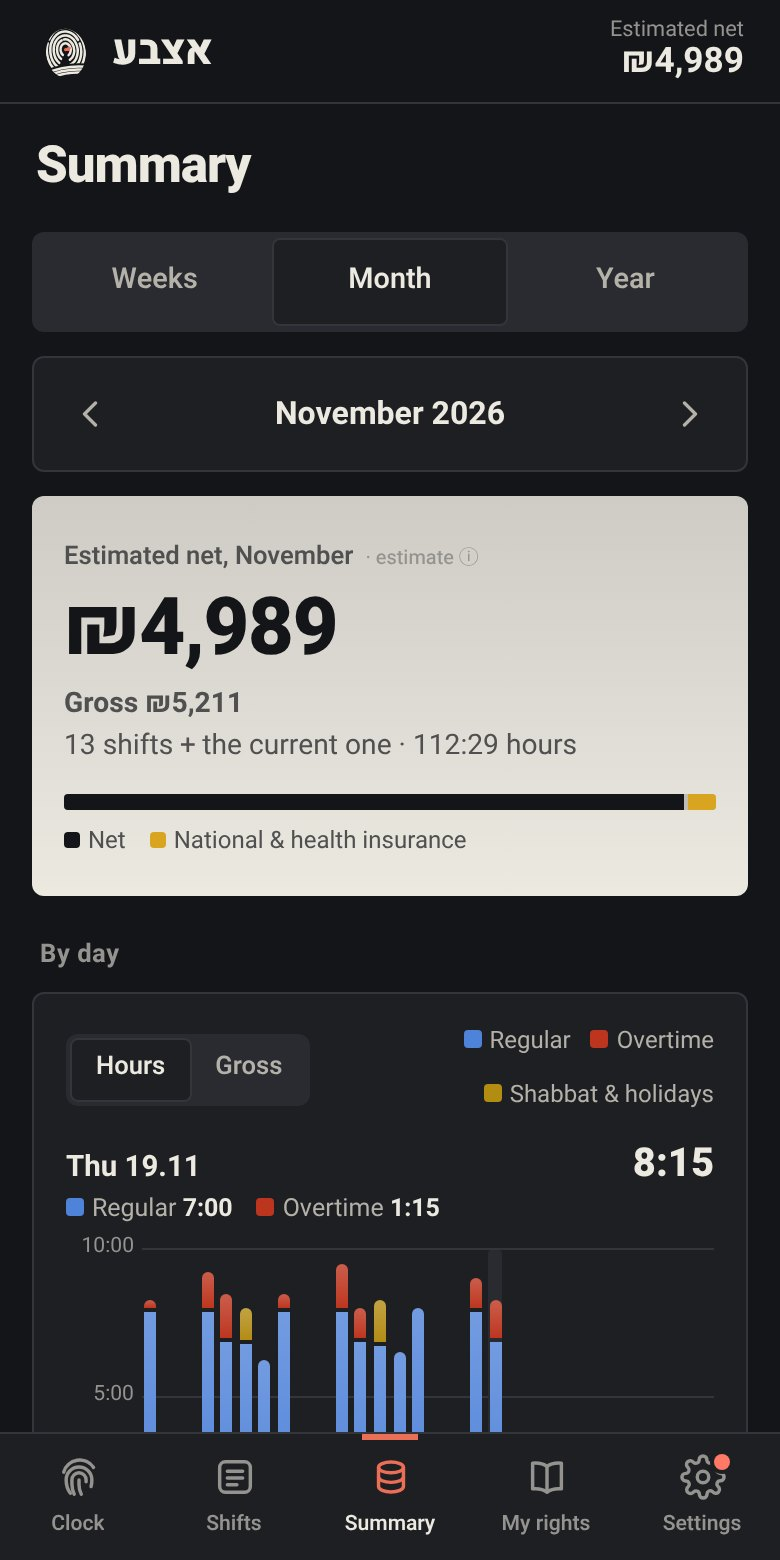
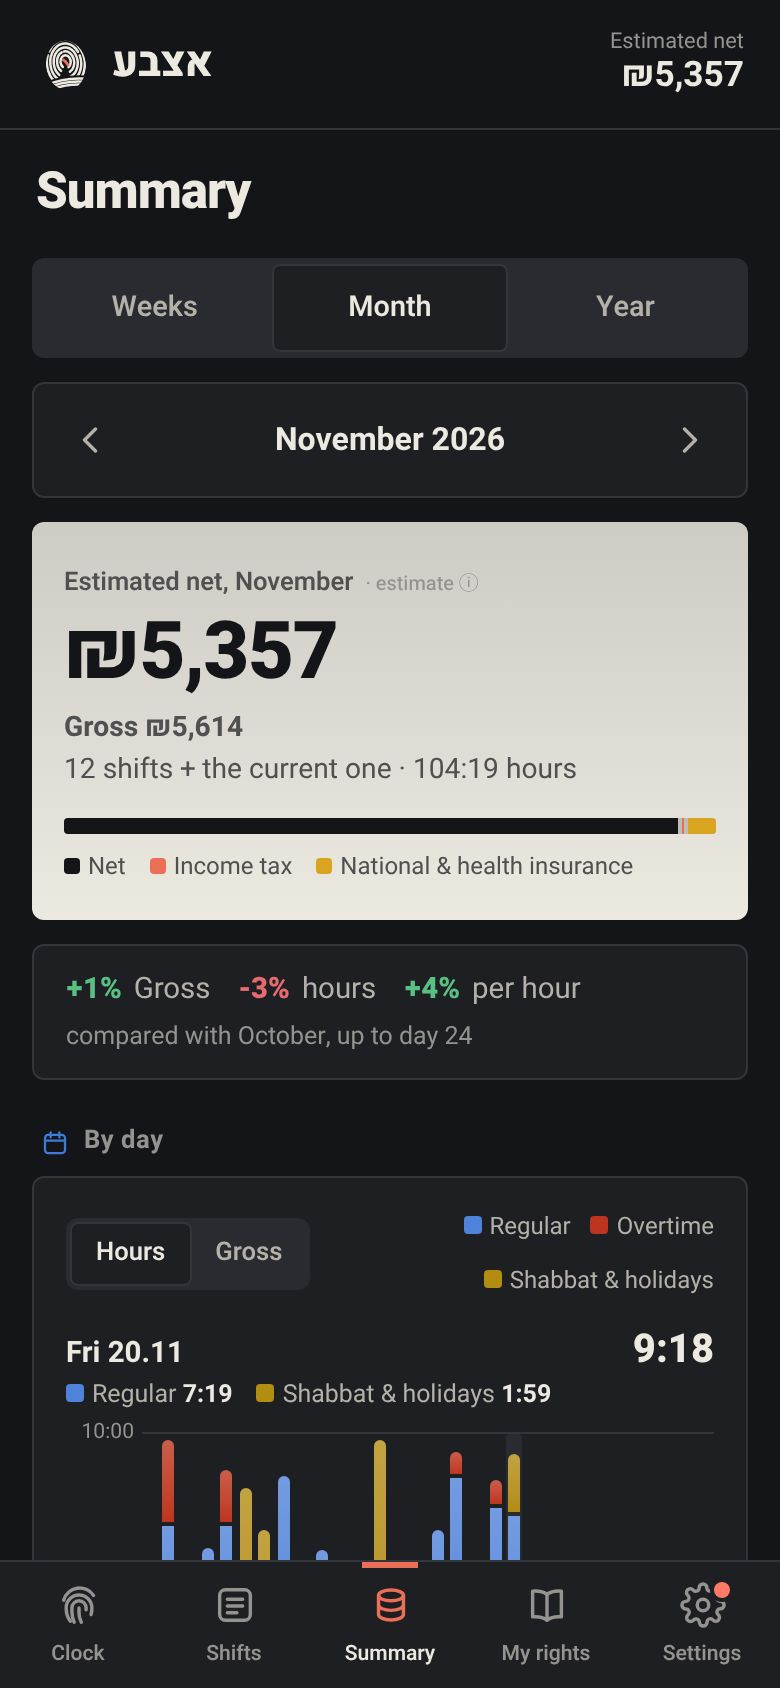
Website: full feature list, fresh screenshots in both languages, gallery as a grid; English 'compared with … up to day'

diff --git a/site/index.html b/site/index.html
@@ -102,18 +102,20 @@ h1 small{display:block;font-size:clamp(17px,2vw,20px);font-weight:600;letter-spa
 section{padding:64px 0;border-top:1px solid var(--line)}
 h2{font-size:clamp(28px,3.6vw,40px);font-weight:800;letter-spacing:-.4px;margin:0 0 8px;line-height:1.15}
 .sub{color:var(--ink2);margin:0 0 36px;max-width:34em}
-.grid{display:grid;grid-template-columns:repeat(3,1fr);gap:28px}
+.grid{display:grid;grid-template-columns:repeat(3,1fr);gap:34px 28px}
 .item h3{font-size:20px;font-weight:700;margin:0 0 6px}
 .item p{margin:0;color:var(--ink2);font-size:16px}
 .item .k{direction:ltr;unicode-bidi:isolate;color:var(--blue);font-weight:800;font-size:15px;display:block;margin-bottom:10px;font-variant-numeric:tabular-nums}
 .item.coral .k{color:var(--coral)}
 html[dir=rtl] .item .k{text-align:right}
 /* gallery */
-.gallery{display:flex;gap:22px;overflow-x:auto;padding:4px 2px 18px;scroll-snap-type:x mandatory;scrollbar-width:none}
-.gallery::-webkit-scrollbar{display:none}
-.shot{flex:none;width:250px;scroll-snap-align:start}
-.shot img{width:100%;border-radius:28px;border:6px solid #26282D;display:block}
+
+.gallery{display:grid;grid-template-columns:repeat(4,1fr);gap:28px 22px}
+
+.shot{min-width:0}
+.shot img{width:100%;height:auto;border-radius:28px;border:6px solid #26282D;display:block}
 .shot>span{display:block;margin-top:12px;font-size:15px;color:var(--ink2)}
+@media (max-width:1100px) and (min-width:861px){.gallery{grid-template-columns:repeat(3,1fr)}}
 /* privacy */
 .private{display:grid;grid-template-columns:1fr 1fr;gap:40px;align-items:start}
 .private ul{margin:0;padding:0;list-style:none}
@@ -141,6 +143,9 @@ html[lang=he] [data-l=he],html[lang=en] [data-l=en]{display:revert}
   .phone.a{position:relative;inset:auto;margin:0 auto}
   .phone.b{display:none}
   .grid,.private,.guides{grid-template-columns:1fr;gap:24px}
+  .gallery{display:flex;overflow-x:auto;scroll-snap-type:x mandatory;scrollbar-width:none;padding-bottom:12px;margin-inline:-24px;padding-inline:24px}
+  .gallery::-webkit-scrollbar{display:none}
+  .shot{flex:0 0 62%;scroll-snap-align:center}
   .bar nav .hide-m{display:none}
 }
 </style>
@@ -175,8 +180,8 @@ html[lang=he] [data-l=he],html[lang=en] [data-l=en]{display:revert}
     <span class="soon"><span data-l="he">חינם. בלי חשבון, בלי פרסומות. עובד גם בלי אינטרנט.</span><span data-l="en">Free. No account, no ads. Works offline.</span></span>
   </div>
   <div class="phones" aria-hidden="true">
-    <div class="phone b"><img data-src="sum" src="img/he/sum.jpg" alt="" width="280" height="560"></div>
-    <div class="phone a"><img data-src="home" src="img/he/home.jpg" alt="" width="280" height="560"></div>
+    <div class="phone b"><img data-src="sum" src="img/he/sum.jpg" alt="" width="280" height="606"></div>
+    <div class="phone a"><img data-src="home" src="img/he/home.jpg" alt="" width="280" height="606"></div>
   </div>
 </div>
 
@@ -184,28 +189,34 @@ html[lang=he] [data-l=he],html[lang=en] [data-l=en]{display:revert}
   <h2><span data-l="he">חישוב שכר ושעות נוספות, כל דקה בתעריף הנכון</span><span data-l="en">Every minute at the right rate</span></h2>
   <p class="sub"><span data-l="he">אצבע יודעת מתי נכנסת שבת בעיר שלך, מתי מתחילות שעות נוספות, ומה מגיע לך ביום הבחירות.</span><span data-l="en">Etzba knows when Shabbat starts in your city, when overtime begins, and what you're owed on election day.</span></p>
   <div class="grid">
-    <div class="item"><span class="k">100% · 125% · 150%</span><h3><span data-l="he">שעות נוספות</span><span data-l="en">Overtime</span></h3><p><span data-l="he">ביום ובשבוע, עם יום מקוצר ומשמרות לילה. המכסה השבועית ניתנת לשינוי.</span><span data-l="en">Daily and weekly, with short days and night shifts. The weekly limit is adjustable.</span></p></div>
-    <div class="item coral"><span class="k">150% · 175% · 200%</span><h3><span data-l="he">שבת וחגים</span><span data-l="en">Shabbat and holidays</span></h3><p><span data-l="he">לפי זמני כניסת ויציאת השבת בעיר שלך, וכל החגים עד 2035, בלי אינטרנט.</span><span data-l="en">By candle-lighting and havdalah in your city, and every holiday to 2035, offline.</span></p></div>
-    <div class="item"><span class="k">₪5,211 → ₪4,989</span><h3><span data-l="he">מחשבון שכר נטו</span><span data-l="en">Gross and net</span></h3><p><span data-l="he">מס הכנסה, נקודות זיכוי, ביטוח לאומי, בריאות ופנסיה. סיכום לשבוע, לחודש ולשנה.</span><span data-l="en">Income tax, credit points, National Insurance, health tax and pension. By week, month and year.</span></p></div>
-    <div class="item"><span class="k">06:14:01</span><h3><span data-l="he">שעון נוכחות בטלפון</span><span data-l="en">Shift clock</span></h3><p><span data-l="he">נגיעה אחת כדי להתחיל, והסכום עולה לנגד העיניים. שכחת? משנים את שעת הכניסה.</span><span data-l="en">One tap to start, and watch the amount grow. Forgot? Change the start time.</span></p></div>
-    <div class="item"><span class="k">.xlsx · .csv</span><h3><span data-l="he">ייבוא מאקסל</span><span data-l="en">Import from Excel</span></h3><p><span data-l="he">משמרות מקבצי Excel ו־CSV, גם מאפליקציות אחרות, ישר מתפריט השיתוף.</span><span data-l="en">Shifts from Excel and CSV files, even from other apps, straight from the share menu.</span></p></div>
-    <div class="item"><span class="k"><span data-l="he">חוק שעות עבודה ומנוחה</span><span data-l="en">Hours of Work and Rest Law</span></span><h3><span data-l="he">מה מגיע לי</span><span data-l="en">Know your rights</span></h3><p><span data-l="he">הזכויות של עובדים לפי שעה, בשפה פשוטה. הפסקות, נסיעות, חגים ועוד.</span><span data-l="en">What hourly workers are owed, in plain words. Breaks, travel, holidays and more.</span></p></div>
+    <div class="item"><span class="k">100% · 125% · 150%</span><h3><span data-l="he">שעות נוספות</span><span data-l="en">Overtime</span></h3><p><span data-l="he">ביום ובשבוע, עם יום מקוצר ומשמרות לילה. המכסה השבועית של 42 שעות נספרת לבד.</span><span data-l="en">By the day and the week, with the short day and night shifts. The 42-hour week is counted for you.</span></p></div>
+    <div class="item coral"><span class="k">150% · 175% · 200%</span><h3><span data-l="he">שבת וחגים</span><span data-l="en">Shabbat and holidays</span></h3><p><span data-l="he">לפי זמני השבת בעיר שלך, או לפי שעות קבועות של המעסיק. דמי חג ויום הבחירות.</span><span data-l="en">By Shabbat times in your city, or your employer's fixed hours. Holiday pay and election day.</span></p></div>
+    <div class="item"><span class="k">₪5,614 → ₪5,357</span><h3><span data-l="he">מחשבון שכר נטו</span><span data-l="en">Gross and net</span></h3><p><span data-l="he">מס הכנסה, נקודות זיכוי, ביטוח לאומי, בריאות ופנסיה. אפשר גם להציג רק ברוטו.</span><span data-l="en">Income tax, credit points, National Insurance, health and pension. Or show gross only.</span></p></div>
+    <div class="item"><span class="k">06:24:18</span><h3><span data-l="he">שעון נוכחות בטלפון</span><span data-l="en">Shift clock</span></h3><p><span data-l="he">נגיעה אחת כדי להתחיל, מהאפליקציה, מהווידג׳ט או מההתראה. הסכום עולה לנגד העיניים.</span><span data-l="en">One tap to start, from the app, the widget or the notification. Watch the pay add up.</span></p></div>
+    <div class="item"><h3><span data-l="he">משמרות עתידיות</span><span data-l="en">Planned shifts</span></h3><p><span data-l="he">מוסיפים משמרת מראש, גם בלי שעת סיום, ומקבלים תזכורת שעה לפני.</span><span data-l="en">Add a shift ahead of time, even without an end time, and get a reminder an hour before.</span></p></div>
+    <div class="item coral"><span class="k">+13% · −15%</span><h3><span data-l="he">סיכום שבוע, חודש ושנה</span><span data-l="en">Weeks, months, years</span></h3><p><span data-l="he">גרפים לפי ימים, והשוואה לחודש ולשנה הקודמים. יעד חודשי ודוח להורדה.</span><span data-l="en">Charts by day, and how you compare with last month and last year. A monthly goal and a report to share.</span></p></div>
+    <div class="item"><h3><span data-l="he">מחלה, חופשה והבראה</span><span data-l="en">Sick days, vacation, recuperation</span></h3><p><span data-l="he">ימי מחלה וחופשה נצברים לבד, ודמי ההבראה מחושבים לפי הוותק.</span><span data-l="en">Sick and vacation days build up on their own; recuperation pay by seniority.</span></p></div>
+    <div class="item"><span class="k">16 · 17 · 18</span><h3><span data-l="he">נוער עובד</span><span data-l="en">Under 18</span></h3><p><span data-l="he">תאריך לידה (לא חובה) מפעיל את הכללים לנוער: שכר מינימום לפי גיל, בלי ביטוח לאומי, 40 שעות בשבוע.</span><span data-l="en">An optional date of birth applies youth rules: minimum wage by age, no National Insurance, a 40-hour week.</span></p></div>
+    <div class="item"><h3><span data-l="he">כמה מקומות עבודה</span><span data-l="en">Several jobs</span></h3><p><span data-l="he">לכל מקום עבודה תעריף, נסיעות, הפסקה וכללים משלו. טיפים ובונוסים בצד.</span><span data-l="en">Each job has its own rate, travel, break and rules. Tips and bonuses on the side.</span></p></div>
+    <div class="item"><span class="k">.xlsx · .csv</span><h3><span data-l="he">ייבוא וייצוא</span><span data-l="en">Import and export</span></h3><p><span data-l="he">משמרות מאקסל ו־CSV, גם מאפליקציות אחרות. ייצוא לאקסל וגיבוי מלא.</span><span data-l="en">Shifts from Excel and CSV, even from other apps. Export to Excel and full backups.</span></p></div>
+    <div class="item"><h3><span data-l="he">מה מגיע לי</span><span data-l="en">Know your rights</span></h3><p><span data-l="he">חוק שעות עבודה ומנוחה בשפה פשוטה, וכל שקל במשמרת מוסבר: למה כאן נוספות ולמה כאן שבת.</span><span data-l="en">Israeli labour law in plain words, and every shekel of a shift explained.</span></p></div>
+    <div class="item coral"><span class="k">Aa · TalkBack</span><h3><span data-l="he">לכולם</span><span data-l="en">For everyone</span></h3><p><span data-l="he">עברית ואנגלית, טקסט גדול עד 200%, קורא מסך, ערכות צבע, ווידג׳ט בכמה גדלים.</span><span data-l="en">Hebrew and English, text up to 200%, screen readers, colour themes, a widget in several sizes.</span></p></div>
   </div>
 </div></section>
-
 <section><div class="wrap">
   <h2><span data-l="he">ככה זה נראה</span><span data-l="en">What it looks like</span></h2>
-  <p class="sub"><span data-l="he">כהה, נקי, ובעברית מימין לשמאל. יש גם אנגלית.</span><span data-l="en">Dark, clean, and right-to-left in Hebrew. In English too.</span></p>
+  <p class="sub"><span data-l="he">נקי, ובעברית מימין לשמאל. יש גם אנגלית, ערכת צבעים בהירה וכהה.</span><span data-l="en">Clean, and right-to-left in Hebrew. In English too, light or dark.</span></p>
   <div class="gallery">
-    <div class="shot"><img data-src="home" src="img/he/home.jpg" alt="שעון הנוכחות: משמרת שרצה עם השכר עד עכשיו" loading="lazy" width="250" height="500"><span><span data-l="he">המשמרת שרצה עכשיו</span><span data-l="en">The shift running now</span></span></div>
-    <div class="shot"><img data-src="sum" src="img/he/sum.jpg" alt="סיכום חודשי: ברוטו ונטו" loading="lazy" width="250" height="500"><span><span data-l="he">סיכום החודש, ברוטו ונטו</span><span data-l="en">The month, gross and net</span></span></div>
-    <div class="shot"><img data-src="shifts" src="img/he/shifts.jpg" alt="רשימת המשמרות לפי שבועות" loading="lazy" width="250" height="500"><span><span data-l="he">כל המשמרות, לפי שבועות</span><span data-l="en">All shifts, by week</span></span></div>
-    <div class="shot"><img data-src="detail" src="img/he/detail.jpg" alt="פירוט שכר של משמרת: שעות רגילות, נוספות ושבת" loading="lazy" width="250" height="500"><span><span data-l="he">למה כל שקל</span><span data-l="en">Why every shekel</span></span></div>
-    <div class="shot"><img data-src="rights" src="img/he/rights.jpg" alt="הזכויות של עובדים לפי שעה" loading="lazy" width="250" height="500"><span><span data-l="he">מה מגיע לך</span><span data-l="en">Your rights</span></span></div>
-    <div class="shot"><img data-src="job" src="img/he/job.jpg" alt="הגדרות מקום העבודה" loading="lazy" width="250" height="500"><span><span data-l="he">ההגדרות של העבודה</span><span data-l="en">Your job's settings</span></span></div>
+    <div class="shot"><img data-src="home" src="img/he/home.jpg" alt="שעון הנוכחות: משמרת פעילה עם השכר עד עכשיו" loading="lazy" width="280" height="606"><span><span data-l="he">המשמרת שרצה עכשיו</span><span data-l="en">The shift running now</span></span></div>
+    <div class="shot"><img data-src="sum" src="img/he/sum.jpg" alt="סיכום חודשי: ברוטו, נטו וניכויים" loading="lazy" width="280" height="606"><span><span data-l="he">סיכום החודש, ברוטו ונטו</span><span data-l="en">The month, gross and net</span></span></div>
+    <div class="shot"><img data-src="year" src="img/he/year.jpg" alt="סיכום שנתי: ברוטו, נטו, שעות וממוצעים" loading="lazy" width="280" height="606"><span><span data-l="he">השנה במספרים</span><span data-l="en">The year in numbers</span></span></div>
+    <div class="shot"><img data-src="shifts" src="img/he/shifts.jpg" alt="רשימת המשמרות לפי שבועות עם שעות נוספות ושבת" loading="lazy" width="280" height="606"><span><span data-l="he">כל המשמרות, לפי שבועות</span><span data-l="en">Every shift, by week</span></span></div>
+    <div class="shot"><img data-src="detail" src="img/he/detail.jpg" alt="פירוט שכר של משמרת: שעות רגילות, נוספות ושבת" loading="lazy" width="280" height="606"><span><span data-l="he">למה כל שקל</span><span data-l="en">Why every shekel</span></span></div>
+    <div class="shot"><img data-src="rights" src="img/he/rights.jpg" alt="הזכויות של עובדים לפי שעה בשפה פשוטה" loading="lazy" width="280" height="606"><span><span data-l="he">מה מגיע לך</span><span data-l="en">Your rights</span></span></div>
+    <div class="shot"><img data-src="job" src="img/he/job.jpg" alt="הגדרות מקום עבודה: שכר לשעה, הפסקה ונסיעות" loading="lazy" width="280" height="606"><span><span data-l="he">ההגדרות של העבודה</span><span data-l="en">Your job's settings</span></span></div>
+    <div class="shot"><img data-src="settings" src="img/he/settings.jpg" alt="הגדרות: מקומות עבודה, מראה, נטו ותאריך לידה" loading="lazy" width="280" height="606"><span><span data-l="he">ההגדרות</span><span data-l="en">Settings</span></span></div>
   </div>
 </div></section>
-
 <section id="faq"><div class="wrap">
   <h2><span data-l="he">שאלות נפוצות</span><span data-l="en">Questions</span></h2>
   <div class="faq" data-l="he"><details><summary>איך מחשבים שעות נוספות?</summary><p>בשבוע של 5 ימים, אחרי 8.6 שעות ביום משלמים 125% על השעתיים הראשונות ו־150% מהשעה השלישית. גם שעות מעבר ל־42 בשבוע הן שעות נוספות. אצבע מחשבת את זה לבד, כולל יום מקוצר ומשמרות לילה.</p></details><details><summary>כמה משלמים על עבודה בשבת ובחג?</summary><p>עבודה בשבת או בחג מזכה ב־150% לפחות, ושעות נוספות בשבת ב־175% ו־200%. אצבע יודעת מתי נכנסת ויוצאת השבת בעיר שלך, ומכירה את כל החגים.</p></details><details><summary>אפשר להשתמש באצבע כשעון נוכחות?</summary><p>כן. שמים אצבע בתחילת המשמרת ובסופה, והשעות נשמרות בטלפון עם השכר של כל משמרת. אפשר לתקן שעות, להוסיף משמרת בדיעבד ולייצא לאקסל.</p></details><details><summary>איך יודעים כמה ייכנס נטו?</summary><p>אצבע מחשבת נטו משוער: מס הכנסה עם נקודות זיכוי, ביטוח לאומי, מס בריאות ופנסיה. זו הערכה, לא תלוש שכר רשמי.</p></details><details><summary>האפליקציה עולה כסף? צריך חשבון?</summary><p>לא. אצבע חינמית, בלי חשבון ובלי פרסומות, והכל נשמר רק בטלפון שלך. היא עובדת גם בלי אינטרנט.</p></details></div>

diff --git a/service-worker.js b/service-worker.js
@@ -1,5 +1,5 @@
 // אצבע — offline cache. Bump VERSION when files change.
-const VERSION = 'etzba-v97';
+const VERSION = 'etzba-v98';
 const FILES = ['./', 'index.html', 'style.css', 'fonts/heebo.woff', 'manifest.webmanifest', 'icons/icon-192.png', 'icons/icon-512.png', 'languages/index.js', 'languages/en.js', 'js/app.js', 'js/pay-engine.js', 'js/hebrew-calendar.js', 'js/net-pay.js', 'js/svg-icons.js', 'js/file-reader.js', 'js/shift-import.js', 'js/diagnostics.js', 'js/native-bridge.js', 'js/translate.js', 'js/a11y.js', 'js/rules.js', 'js/features.js', 'js/remote-packs.js', 'js/leave.js', 'js/report.js', 'js/dev-key.js', 'languages/pack-versions.js'];
 self.addEventListener('install', e => { e.waitUntil(caches.open(VERSION).then(c => c.addAll(FILES))); self.skipWaiting(); });
 self.addEventListener('activate', e => { e.waitUntil(caches.keys().then(ks => Promise.all(ks.filter(k => k !== VERSION && k !== 'etzba-share').map(k => caches.delete(k))))); self.clients.claim(); });

diff --git a/languages/en.js b/languages/en.js
@@ -574,8 +574,8 @@ export default {
     ["עלייה של {}%", "up {1}%"],
     ["האחוזים: לעומת {}.", "Percentages: compared with {1}."],
     ["האחוזים: לעומת {}, באותה תקופה בשנה.", "Percentages: compared with {1}, the same part of the year."],
-    ["לעומת {}", "compared with {1}"],
     ["לעומת {} עד ה־{}", "compared with {1}, up to day {2}"],
+    ["לעומת {}", "compared with {1}"],
     ["ירידה של {}% בשכר לשעה", "pay per hour down {1}%"],
     ["עלייה של {}% בשכר לשעה", "pay per hour up {1}%"],
     ["ירידה של {}% בשעות", "hours down {1}%"],

diff --git a/languages/pack-versions.js b/languages/pack-versions.js
@@ -1,2 +1,2 @@
 // Generated by scripts/build-data.mjs: the version of each language pack built into the app.
-export default {"en":51};
+export default {"en":52};
